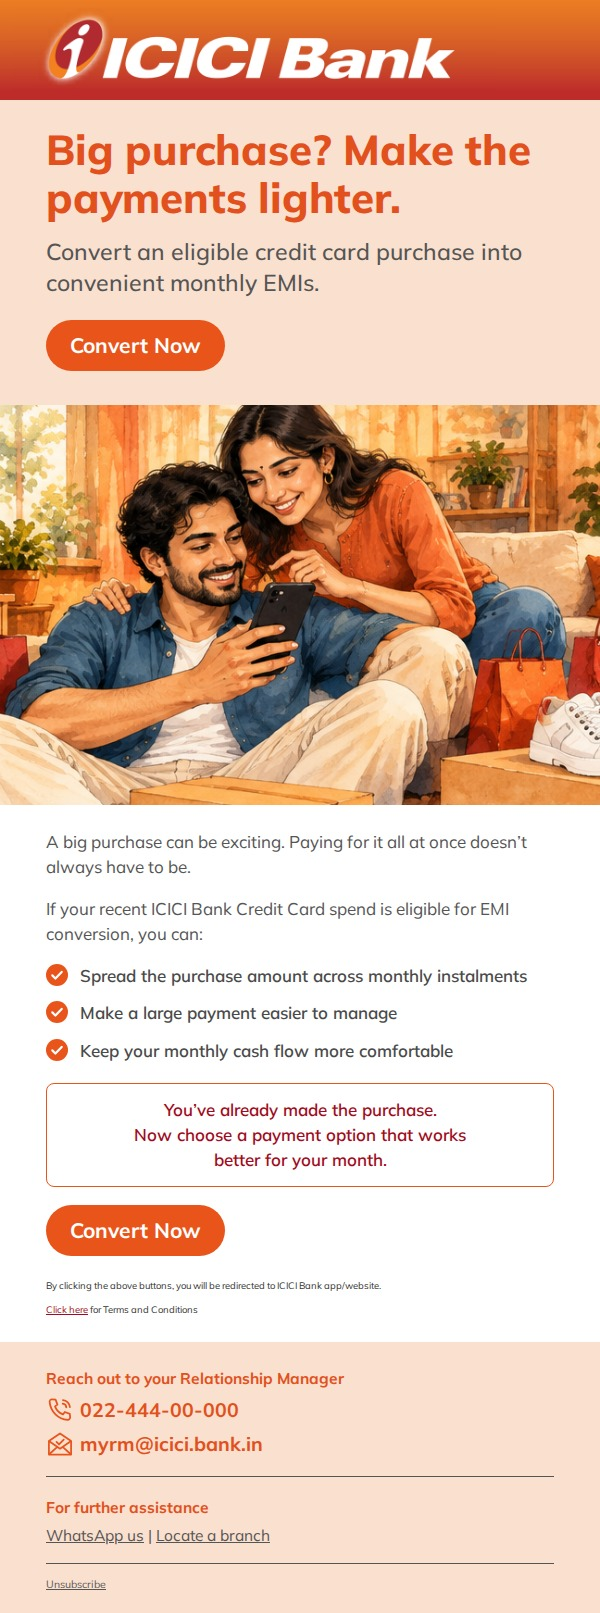
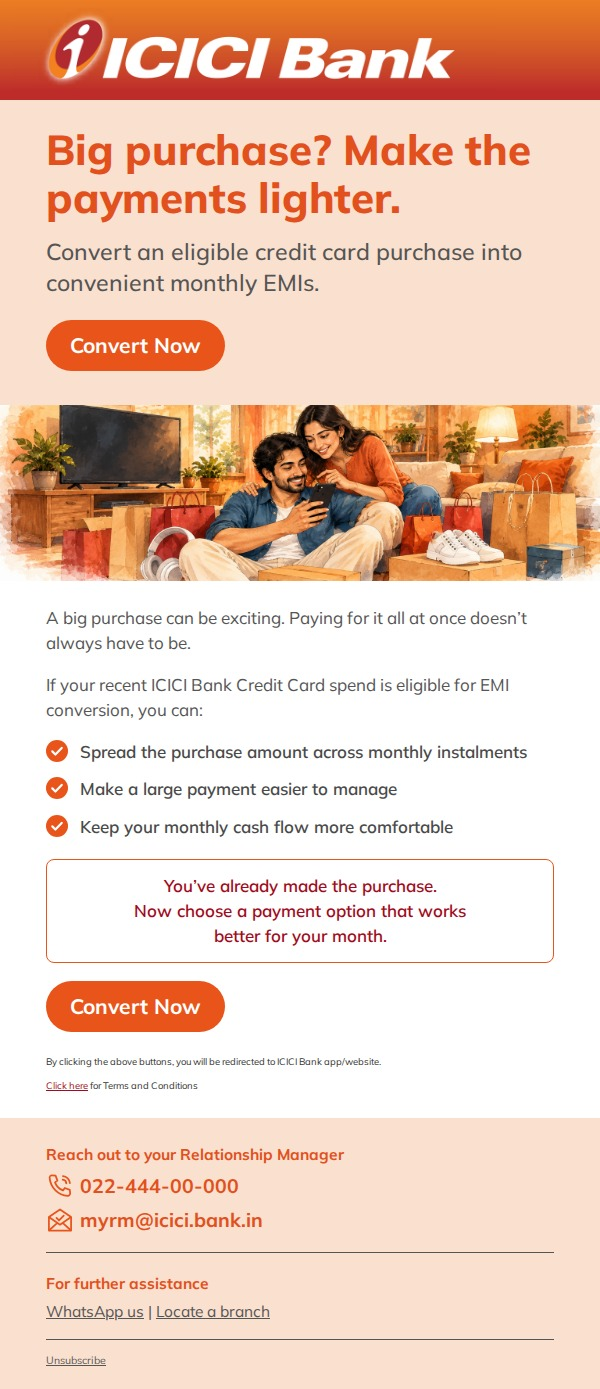
Use the full EMI illustration, resized instead of cropped
Claude-Session: https://claude.ai/code/session_01Xrrh9AtUaVEQQhgAmmX2d4

diff --git a/mailers/source/mailer2.html b/mailers/source/mailer2.html
@@ -31,7 +31,7 @@ h1{font-size:42px;line-height:1.14;font-weight:800;color:#E2501D;letter-spacing:
 .sm{font-size:10.5px;line-height:1.6;color:#555}
 .sm a{color:#555}
 
-.body{text-align:left}.imgcrop img{margin-top:-0px}.imgcrop{overflow:hidden;height:400px}</style></head><body><div class="m">
+.body{text-align:left}.imgcrop img{margin-top:-0px}.imgcrop{overflow:hidden;height:176px}</style></head><body><div class="m">
 <div class="hd"><img src="logo-band.png" alt="ICICI Bank"></div>
 <div class="hero"><h1>Big purchase? Make the payments lighter.</h1><p class="sub">Convert an eligible credit card purchase into convenient monthly EMIs.</p><a class="btn">Convert Now</a></div>
 <div class="vis imgcrop"><img src="ill-emi.png" style=""></div>

diff --git a/mailers/source/build.py b/mailers/source/build.py
@@ -64,7 +64,7 @@ M1=dict(h1='Make recurring payments simpler',sub='Set it once, and let your paym
  close='A little automation can make your monthly money routine one thing simpler.',callout=False,
  sys='<p style="margin-bottom:2px">This is a system generated e-mail. Please do not reply.</p>')
 M2=dict(h1='Big purchase? Make the payments lighter.',sub='Convert an eligible credit card purchase into convenient monthly EMIs.',cta='Convert Now',
- img='ill-emi.png',crop=0,h=400,align='left',
+ img='ill-emi.png',crop=0,h=176,align='left',
  pre=['A big purchase can be exciting. Paying for it all at once doesn’t always have to be.',
       'If your recent ICICI Bank Credit Card spend is eligible for EMI conversion, you can:'],
  list=['Spread the purchase amount across monthly instalments','Make a large payment easier to manage','Keep your monthly cash flow more comfortable'],
